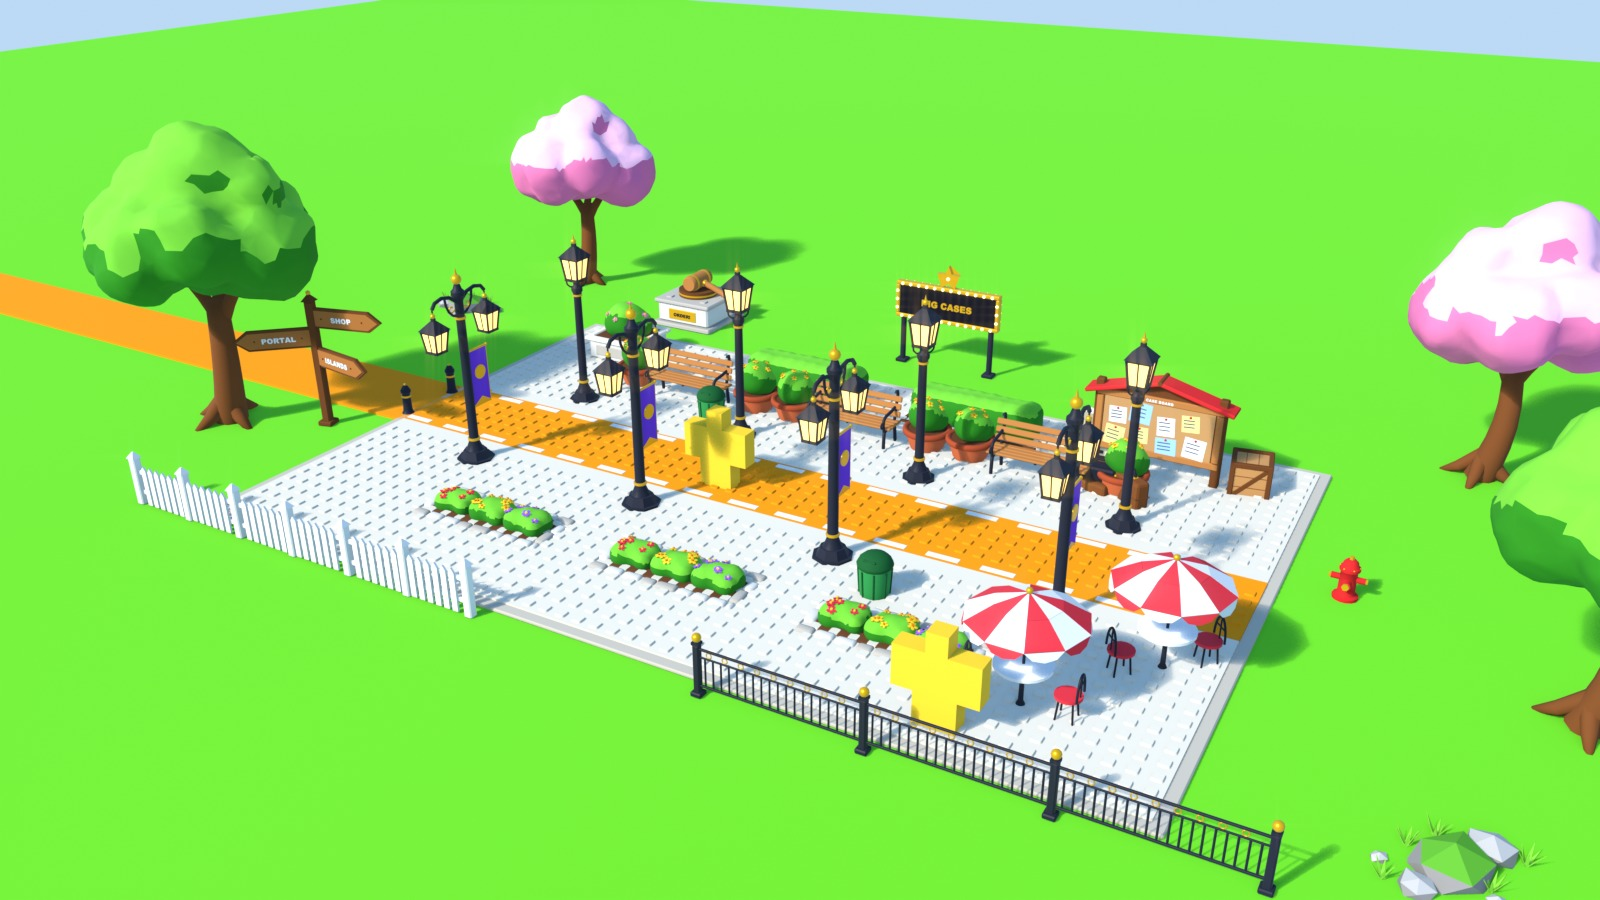
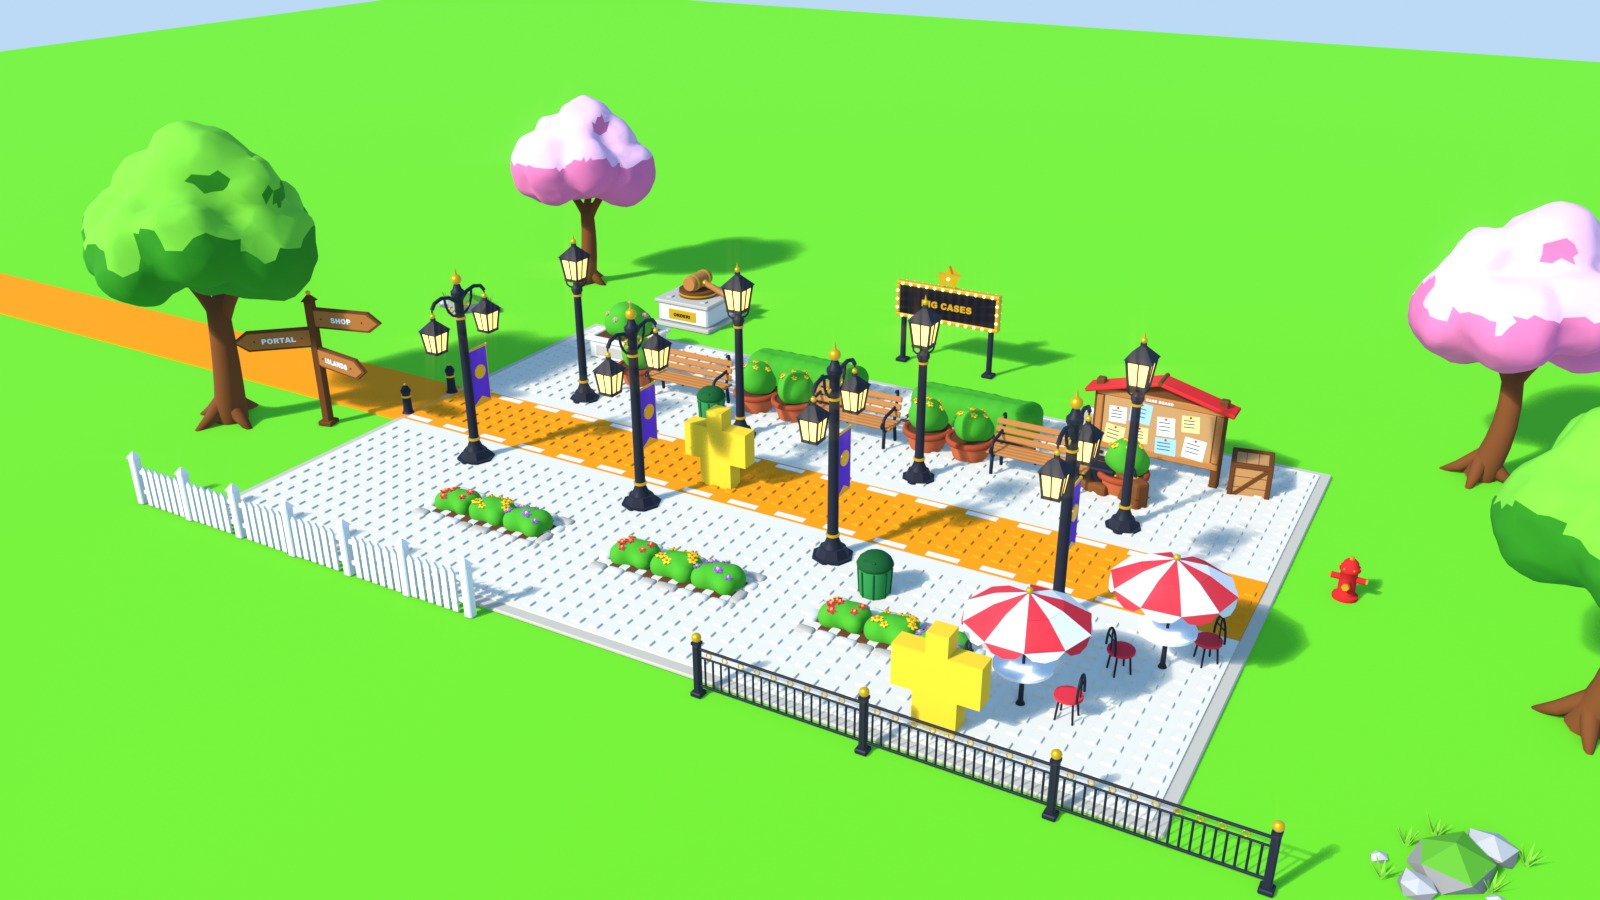
Overhaul props: bushes one solid green (crnuch: two-tone looked like two different colours); architecture kit ohbuild.py (windows, doors, columns, hip roofs, pediments, balustrades, quoins, flags, StudTop preview)

diff --git a/tools/blender/overhaul/ohbuild.py b/tools/blender/overhaul/ohbuild.py
@@ -1,0 +1,244 @@
+# tools/blender/overhaul/ohbuild.py - the MAP MODEL OVERHAUL's architecture kit (hub buildings, firm stages): framed
+# windows (arched / square, glass with a cartoon shine), panelled double doors with a fanlight, classical columns, hip
+# roofs with standing seams and a gold ridge, pediments, balustrades, corner quoins, flags, and the StudTop preview.
+# Everything builds in the current ohkit frame (O.at). A wall piece's outward face is local -Y at y = 0 (turn it with
+# O.at(rz=...) for other walls). Names: <prefix>_<Part> per colour, like the rest of the overhaul.
+import math
+from mathutils import Vector
+import ohkit as O
+from ohkit import box, cyl, lathe, sphere, tube, prism, poly
+
+TAU = math.tau
+
+
+# ------------------------------------------------------------------ outlines
+def opening(w, h, arch=True, n=10, grow=0.0):
+    """An opening's outline [(x, z)] from the bottom-left, counter-clockwise seen from the front: a rectangle, or one
+    whose top is a half circle (the same point count either way, so two outlines can be joined into a frame ring).
+    grow widens it on the sides and top (a frame's outer edge)."""
+    hw = w / 2 + grow
+    if arch:
+        spring = h - w / 2
+        pts = [(-hw, -grow * 0.5), (hw, -grow * 0.5), (hw, spring)]
+        pts += [(hw * math.cos(math.pi * i / n), spring + hw * math.sin(math.pi * i / n)) for i in range(1, n)]
+        pts += [(-hw, spring)]
+    else:
+        top = h + grow
+        pts = [(-hw, -grow * 0.5), (hw, -grow * 0.5), (hw, top - 0.001)]
+        pts += [(hw - 2 * hw * i / n, top) for i in range(1, n)]
+        pts += [(-hw, top - 0.001)]
+    return pts
+
+
+def ring(name, look, outer, inner, y0, y1):
+    """A frame between two outlines with the same point count, from y0 (front) to y1 (back)."""
+    import bmesh
+    tmp = bmesh.new()
+    of = [tmp.verts.new((x, y0, z)) for x, z in outer]
+    inf = [tmp.verts.new((x, y0, z)) for x, z in inner]
+    ob = [tmp.verts.new((x, y1, z)) for x, z in outer]
+    ib = [tmp.verts.new((x, y1, z)) for x, z in inner]
+    n = len(outer)
+    for i in range(n):
+        j = (i + 1) % n
+        tmp.faces.new((of[i], of[j], inf[j], inf[i]))
+        tmp.faces.new((ib[i], ib[j], ob[j], ob[i]))
+        tmp.faces.new((ob[i], ob[j], of[j], of[i]))
+        tmp.faces.new((inf[i], inf[j], ib[j], ib[i]))
+    for f in tmp.faces:
+        f.smooth = False
+    bmesh.ops.recalc_face_normals(tmp, faces=tmp.faces[:])
+    O._merge(name, look, tmp, O.Matrix.Identity(4))
+
+
+# ------------------------------------------------------------------ windows + doors
+def window(p, x, z, w, h, arch=True, frame="white", glass="glass_blue", sill="marble", keystone="marble_shade",
+           mullions=True, shutters=None, depth=0.3):
+    """A framed window on the wall at local y = 0 (outward -Y): frame ring, recessed glass + shine, cross mullions,
+    sill, keystone (arched) and optional shutters. (x, z) = the bottom centre."""
+    fw = max(0.32, w * 0.12)
+    with O.at(x, 0, z):
+        ring(p + "_Frame", frame, opening(w, h, arch, grow=fw), opening(w, h, arch), -depth, 0.05)
+        prism(p + "_Glass", glass, opening(w, h, arch), 0.1, c=(0, -0.08, 0))
+        sh = min(w, h) * 0.18  # a cartoon shine: two slanted streaks
+        for k, (ox, ln) in enumerate(((-w * 0.18, 0.55), (-w * 0.02, 0.3))):
+            cx, cz = ox, h * 0.62 - k * 0.15 * h
+            poly(p + "_Shine", "white", [(cx - sh * 0.35, -0.14, cz - h * 0.12 * ln), (cx - sh * 0.1, -0.14, cz - h * 0.12 * ln),
+                                         (cx + sh * 0.65, -0.14, cz + h * 0.12 * ln), (cx + sh * 0.4, -0.14, cz + h * 0.12 * ln)])
+        if mullions:
+            top = h - (w / 2 if arch else 0) * 0.0
+            box(p + "_Frame", frame, (0, -0.16, top / 2), (0.16, 0.12, top))
+            box(p + "_Frame", frame, (0, -0.16, (h - w / 2) if arch else h * 0.55), (w, 0.12, 0.16))
+        if sill:
+            box(p + "_Sill", sill, (0, -depth - 0.12, -fw * 0.5 - 0.12), (w + fw * 2 + 0.5, 0.6, 0.26), bevel=0.06)
+        if arch and keystone:
+            kz = h + fw * 0.5
+            prism(p + "_Key", keystone, [(-0.32, kz - 0.5), (0.32, kz - 0.5), (0.45, kz + 0.45), (-0.45, kz + 0.45)], depth + 0.14,
+                  c=(0, -(depth + 0.14) / 2 + 0.05, 0))
+        if shutters:
+            for s in (-1, 1):
+                sx = s * (w / 2 + fw + 0.55 * w / 2)
+                sh_h = (h - w / 2 * 0.6) if arch else h
+                box(p + "_Shutter", shutters, (sx, -0.12, sh_h / 2), (w * 0.52, 0.18, sh_h), bevel=0.04)
+                for zz in [sh_h * (i + 1) / 7 for i in range(6)]:
+                    box(p + "_Shutter", shutters, (sx, -0.23, zz), (w * 0.44, 0.06, 0.1), rot=(20, 0, 0))
+
+
+def door(p, x, z, w, h, frame="gold", leaf="wood_deep", panel="wood_warm", glass="glass_blue", handle="gold", depth=0.5):
+    """An arched double door: frame ring, two panelled leaves, gold handles, a fanlight with radiating glazing bars."""
+    fw = max(0.4, w * 0.09)
+    spring = h - w / 2
+    with O.at(x, 0, z):
+        ring(p + "_DoorFrame", frame, opening(w, h, True, grow=fw), opening(w, h, True), -depth, 0.05)
+        for s in (-1, 1):
+            cx = s * w / 4
+            box(p + "_Leaf", leaf, (cx, -0.12, spring / 2), (w / 2 - 0.06, 0.2, spring), bevel=0.04)
+            for zz, hh in ((spring * 0.27, spring * 0.36), (spring * 0.72, spring * 0.42)):
+                box(p + "_Panel", panel, (cx, -0.24, zz), (w / 2 - 0.7, 0.08, hh), bevel=0.05)
+            sphere(p + "_Handle", handle, (s * 0.32, -0.36, spring * 0.5), 0.17, sub=1)
+            box(p + "_Handle", handle, (s * 0.32, -0.24, spring * 0.5), (0.26, 0.1, 0.6), bevel=0.04)
+        fan = [(w / 2 * math.cos(math.pi * i / 12), spring + w / 2 * math.sin(math.pi * i / 12)) for i in range(13)]
+        prism(p + "_Glass", glass, [(w / 2, spring)] + fan[1:-1] + [(-w / 2, spring)], 0.1, c=(0, -0.1, 0))
+        box(p + "_DoorFrame", frame, (0, -0.2, spring), (w, 0.2, 0.22))
+        for i in range(1, 6):
+            a = math.pi * i / 6
+            tube(p + "_DoorFrame", frame, [(0, -0.18, spring), (w / 2 * 0.95 * math.cos(a), -0.18, spring + w / 2 * 0.95 * math.sin(a))],
+                 0.07, segs=4)
+        box(p + "_Step", "marble", (0, -depth - 0.6, -0.12), (w + fw * 2 + 0.6, 1.4, 0.24), bevel=0.05)
+
+
+# ------------------------------------------------------------------ columns, cornices, quoins, balustrades
+def column(p, x, y, z, h, r=1.0, look="marble", trim="gold"):
+    """A Tuscan column (square plinth, torus base, swelling shaft, gold necking ring, echinus, square abacus)."""
+    with O.at(x, y, z):
+        box(p + "_Column", look, (0, 0, 0.25), (r * 2.5, r * 2.5, 0.5), bevel=0.06)
+        lathe(p + "_Column", look, [(r * 1.18, 0.5, True), (r * 1.22, 0.62), (r * 1.18, 0.8), (r * 1.05, 0.92, True),
+                                    (r * 1.0, 1.0), (r * 1.02, h * 0.33), (r * 0.9, h - 1.3), (r * 0.9, h - 1.1, True)], segs=20)
+        cyl(p + "_Trim", trim, (0, 0, h - 1.1), r * 0.98, 0.22, segs=20)
+        lathe(p + "_Column", look, [(r * 0.9, h - 0.88, True), (r * 1.05, h - 0.72), (r * 1.22, h - 0.5, True), (0.0, h - 0.5)],
+              segs=20)
+        box(p + "_Column", look, (0, 0, h - 0.25), (r * 2.6, r * 2.6, 0.5), bevel=0.06)
+
+
+def quoins(p, x, y, z0, z1, look="stone_mid", dir=(1, 1), size=1.0):
+    """Alternating corner stones up a building corner at (x, y); dir = which way the two faces point (+/-1, +/-1)."""
+    k, z = 0, z0
+    while z + size * 0.9 < z1:
+        long = k % 2 == 0
+        lx, ly = (1.8 if long else 1.1) * size, (1.1 if long else 1.8) * size
+        box(p + "_Quoin", look, (x - dir[0] * (lx / 2 - 0.12), y - dir[1] * (ly / 2 - 0.12), z + size * 0.45),
+            (lx, ly, size * 0.86), bevel=0.06)
+        z += size
+        k += 1
+
+
+def balustrade(p, x0, y0, x1, y1, z, h=1.6, look="marble", rail=None, every=0.75, posts=6.0):
+    """A run of turned balusters between a base and a hand rail, with square posts every `posts` studs."""
+    rail = rail or look
+    L = math.hypot(x1 - x0, y1 - y0)
+    ang = math.degrees(math.atan2(y1 - y0, x1 - x0))
+    with O.at((x0 + x1) / 2, (y0 + y1) / 2, z, rz=ang):
+        box(p + "_Rail", rail, (0, 0, 0.12), (L, 0.7, 0.24), bevel=0.04)
+        box(p + "_Rail", rail, (0, 0, h - 0.13), (L + 0.2, 0.8, 0.26), bevel=0.06)
+        n = max(1, int(L / every))
+        for i in range(n):
+            x = -L / 2 + (i + 0.5) * L / n
+            lathe(p + "_Baluster", look, [(0.22, 0.24, True), (0.24, 0.36), (0.16, 0.5), (0.27, 0.8), (0.2, h - 0.5), (0.14, h - 0.4),
+                                          (0.22, h - 0.26, True)], segs=6, c=(x, 0, 0))
+        m = max(1, int(L / posts))
+        for i in range(m + 1):
+            x = -L / 2 + i * L / m
+            box(p + "_Rail", rail, (x, 0, h / 2), (0.6, 0.6, h), bevel=0.05)
+            box(p + "_Rail", rail, (x, 0, h + 0.1), (0.75, 0.75, 0.2), bevel=0.05)
+
+
+def cornice(p, x, y, z, sx, sy, look="marble", trim=None, depth=0.8):
+    """A stepped cornice band around a block's top (three stacked chamfered slabs, the middle one a gold fillet)."""
+    box(p + "_Cornice", look, (x, y, z + 0.2), (sx + 0.3, sy + 0.3, 0.4), bevel=0.06)
+    box(p + "_" + ("Trim" if trim else "Cornice"), trim or look, (x, y, z + 0.5), (sx + depth * 0.6, sy + depth * 0.6, 0.2), bevel=0.04)
+    box(p + "_Cornice", look, (x, y, z + 0.85), (sx + depth * 1.5, sy + depth * 1.5, 0.5), bevel=0.1)
+
+
+# ------------------------------------------------------------------ roofs
+def hip_roof(p, look, x, y, z, sx, sy, h, over=0.8, seam="navy_seam", ridge="gold", fascia="marble", seams=1.4):
+    """A hip roof over a sx x sy block (ridge along the longer side), with an eave fascia, standing seams on every
+    slope and a gold ridge + hip caps with finial balls."""
+    import bmesh
+    ex, ey = sx / 2 + over, sy / 2 + over
+    along_x = sx >= sy
+    r = abs(ex - ey)
+    with O.at(x, y, z):
+        box(p + "_Fascia", fascia, (0, 0, -0.2), (ex * 2 + 0.1, ey * 2 + 0.1, 0.45), bevel=0.06)
+        tmp = bmesh.new()
+        e = [tmp.verts.new(v) for v in ((-ex, -ey, 0), (ex, -ey, 0), (ex, ey, 0), (-ex, ey, 0))]
+        if along_x:
+            a, b = tmp.verts.new((-r, 0, h)), tmp.verts.new((r, 0, h))
+            faces = [(e[0], e[1], b, a), (e[2], e[3], a, b), (e[1], e[2], b), (e[3], e[0], a)]
+        else:
+            a, b = tmp.verts.new((0, -r, h)), tmp.verts.new((0, r, h))
+            faces = [(e[1], e[2], b, a), (e[3], e[0], a, b), (e[0], e[1], a), (e[2], e[3], b)]
+        for f in faces:
+            tmp.faces.new(f).smooth = False
+        tmp.faces.new((e[3], e[2], e[1], e[0])).smooth = False
+        O._merge(p + "_Roof", look, tmp, O.Matrix.Identity(4))
+        ridge_a, ridge_b = (Vector((-r, 0, h)), Vector((r, 0, h))) if along_x else (Vector((0, -r, h)), Vector((0, r, h)))
+        corners = [Vector((-ex, -ey, 0)), Vector((ex, -ey, 0)), Vector((ex, ey, 0)), Vector((-ex, ey, 0))]
+        # standing seams: on each slope, up the fall line from the eave until a hip (or the ridge). Every slope runs in
+        # m = the short half-width and rises h; a hip is 45 degrees in plan.
+        m, lift = min(ex, ey), 0.06
+        if seam:
+            for axis, sign in (("x", -1), ("x", 1), ("y", -1), ("y", 1)):
+                E = ex if axis == "x" else ey
+                kmax = int((E - 0.3) / seams)
+                for k in range(-kmax, kmax + 1):
+                    u = k * seams
+                    t = min(m, E - abs(u))
+                    if t < 0.4:
+                        continue
+                    if axis == "x":
+                        base, n_in = Vector((u, sign * ey, 0)), Vector((0, -sign, 0))
+                    else:
+                        base, n_in = Vector((sign * ex, u, 0)), Vector((-sign, 0, 0))
+                    top = base + n_in * t + Vector((0, 0, h * t / m))
+                    nrm = (-n_in * h + Vector((0, 0, m))).normalized()
+                    tube(p + "_Seam", seam, [tuple(base + nrm * lift), tuple(top + nrm * lift)], 0.07, segs=4, cap=False)
+        if ridge:
+            if r > 0.01:
+                tube(p + "_Ridge", ridge, [tuple(ridge_a + Vector((0, 0, 0.05))), tuple(ridge_b + Vector((0, 0, 0.05)))], 0.2, segs=8)
+            ends = (ridge_a, ridge_b) if r > 0.01 else (ridge_a,)
+            for c, ra in zip(corners, (ridge_a, ridge_b, ridge_b, ridge_a) if along_x else (ridge_a, ridge_a, ridge_b, ridge_b)):
+                tube(p + "_Ridge", ridge, [tuple(c + Vector((0, 0, 0.08))), tuple(ra + Vector((0, 0, 0.05)))], 0.16, segs=6)
+            for e2 in ends:
+                sphere(p + "_Ridge", ridge, tuple(e2 + Vector((0, 0, 0.35))), 0.38, sub=2)
+
+
+def gable(p, look, x, y, z, w, h, depth, trim="marble", tympanum=None, over=0.7):
+    """A triangular pediment (front at local -Y) with raking + base cornices and an optional recessed tympanum."""
+    with O.at(x, y, z):
+        prism(p + "_Pediment", look, [(-w / 2, 0), (w / 2, 0), (0, h)], depth, c=(0, 0, 0))
+        if tympanum:
+            prism(p + "_Tympanum", tympanum, [(-w / 2 + 1.6, 0.55), (w / 2 - 1.6, 0.55), (0, h - 0.9)], 0.1, c=(0, -depth / 2 - 0.03, 0))
+        slope = math.degrees(math.atan2(h, w / 2))
+        L = math.hypot(w / 2, h) + over
+        for s in (-1, 1):
+            box(p + "_Raking", trim, (s * w / 4, -0.1, h / 2 + 0.28), (L, depth + over * 1.4, 0.56), rot=(0, -s * slope, 0), bevel=0.08)
+        box(p + "_Raking", trim, (0, -0.1, -0.05), (w + over * 2, depth + over * 1.4, 0.5), bevel=0.08)
+
+
+def flag(p, x, y, z, h, look="flag_purple", pole="white", w=3.6, fh=2.2, seed=0):
+    """A flagpole with a gold ball and a waving cloth (thin strip, both sides)."""
+    with O.at(x, y, z):
+        cyl(p + "_Pole", pole, (0, 0, 0), 0.14, h, segs=8)
+        sphere(p + "_Pole", "gold", (0, 0, h + 0.2), 0.3, sub=1)
+        n = 8
+        pts_top = [(0.15 + w * i / n, 0.35 * math.sin(i / n * 5.0 + seed) * (i / n), h - 0.2) for i in range(n + 1)]
+        for i in range(n):
+            a, b = pts_top[i], pts_top[i + 1]
+            poly(p + "_Flag", look, [(a[0], a[1], a[2] - fh), (b[0], b[1], b[2] - fh - 0.1 * (i + 1) / n), (b[0], b[1], b[2]),
+                                     (a[0], a[1], a[2])], thick=0.06)
+
+
+def studtop(model, look, x0, x1, y0, y1, z, skip=None):
+    """PREVIEW studs on a broad top (podium, roof deck, plaza): in the game the Studs system lays them on a StudTop
+    surface, so they are rendered here but are not part of the model's meshes."""
+    O.studs_rect("Studs_" + model + "_" + look, look, x0, x1, y0, y1, z, skip)

diff --git a/tools/blender/overhaul/ohkit.py b/tools/blender/overhaul/ohkit.py
@@ -24,7 +24,7 @@ K.PAL.update({
     "iron": (52, 54, 64), "iron_light": (96, 100, 116), "wood_warm": (196, 132, 74), "wood_deep": (122, 76, 42),
     "plank_light": (206, 152, 96), "plank_dark": (150, 98, 58), "stone_light": (232, 226, 212), "stone_mid": (196, 188, 174),
     "stone_dark": (146, 140, 132), "trim_cream": (248, 238, 214), "gold": (255, 196, 46), "gold_dark": (206, 146, 24),
-    "bush_shade": (58, 142, 40), "bush_light": (124, 206, 66), "leaf_sun": (140, 214, 74), "soil": (112, 74, 46),
+    "bush_shade": (58, 142, 40), "bush_light": (124, 206, 66), "bush": (88, 182, 54), "hedge": (80, 172, 50), "leaf_sun": (140, 214, 74), "soil": (112, 74, 46),
     "flower_red": (240, 62, 84), "flower_yel": (255, 212, 54), "flower_pink": (255, 128, 190), "flower_purple": (168, 104, 240),
     "flower_white": (252, 250, 244), "flower_orange": (255, 140, 40), "rock": (156, 152, 146), "rock_top": (204, 200, 192),
     "moss": (112, 186, 62), "brief_brown": (136, 84, 46), "brief_black": (46, 46, 56), "file_box": (234, 220, 184),
@@ -34,9 +34,14 @@ K.PAL.update({
     "terracotta": (218, 114, 72), "terracotta_dark": (178, 84, 52), "parasol_red": (234, 66, 76), "hydrant_red": (228, 52, 52),
     "banner_purple": (128, 72, 210), "plaza": (238, 228, 206), "plaza_edge": (206, 196, 176), "path": (255, 160, 24),
     "grass_ov": (124, 222, 52), "avatar": (255, 210, 60),
+    # architecture (hub buildings, firms)
+    "wall_cream": (246, 226, 180), "wall_warm": (240, 214, 168), "marble": (244, 242, 236), "marble_shade": (220, 216, 206),
+    "navy_roof": (56, 70, 136), "navy_dark": (38, 48, 100), "navy_seam": (82, 98, 168), "glass_blue": (128, 190, 240),
+    "glass_deep": (82, 140, 210), "carpet_red": (204, 40, 58), "flag_purple": (140, 80, 220), "flag_red": (232, 56, 64),
 })
 K.GLOWS.update({"lamp_glow": ((255, 208, 120), 1.35), "bulb_glow": ((255, 226, 150), 2.2)})  # (warm, not blown to white)
-ROUGH = {"gold": 0.32, "gold_dark": 0.36, "iron": 0.5, "iron_light": 0.5, "brief_black": 0.45, "panel_black": 0.4}
+ROUGH = {"gold": 0.32, "gold_dark": 0.36, "iron": 0.5, "iron_light": 0.5, "brief_black": 0.45, "panel_black": 0.4,
+         "glass_blue": 0.12, "glass_deep": 0.12, "navy_roof": 0.6}
 
 BMS = {}          # name -> (bmesh, look)
 CUR = [Matrix.Identity(4)]
@@ -356,10 +361,11 @@ def tuft(name, look, c, h=0.9, blades=6, seed=0):
 
 
 # ------------------------------------------------------------------ foliage (the approved tree canopy, from trees.py)
-def leafy(name, blobs, shade="bush_shade", light="bush_light", voxel=0.25, faces=700, lumpy=0.25, seed=0, squash=1.0, split=0.3):
-    """Overlapping spheres (local frame) -> ONE organic surface (voxel remesh + lumps + smooth + thin), split by which
-    way each face looks into <name>_Canopy (shade) + <name>_Light (sunlit top), as the approved trees do.
-    Returns the two objects (for flowers_on)."""
+def leafy(name, blobs, look="bush", voxel=0.25, faces=700, lumpy=0.25, seed=0, squash=1.0, split=None, light=None):
+    """Overlapping spheres (local frame) -> ONE organic surface (voxel remesh + lumps + smooth + thin) in ONE green
+    (crnuch 2026-10-24: two-tone bushes looked like two different colours; the light does the shading). split + light
+    = the trees' old two-tone split (<name>_Canopy + <name>_Light), kept only for reference. Returns the objects."""
+    shade = look
     full = PREFIX[-1] + name
     bm = bmesh.new()
     for c, r in blobs:
@@ -386,6 +392,13 @@ def leafy(name, blobs, shade="bush_shade", light="bush_light", voxel=0.25, faces
     dec = ob.modifiers.new("Decimate", "DECIMATE")
     dec.ratio = min(1.0, faces / max(1, len(ob.data.polygons)))
     _apply(ob)
+    if split is None:  # one colour: just name it and smooth it
+        ob.name = ob.data.name = full + "_Leaves"
+        ob.data.materials.clear()
+        ob.data.materials.append(mat(look))
+        for p in ob.data.polygons:
+            p.use_smooth = True
+        return [ob]
     bm = bmesh.new()
     bm.from_mesh(ob.data)
     bm.normal_update()
@@ -487,11 +500,23 @@ def render(out, name, loc, look, lens=32, res=(1600, 900), show=None):
     print("rendered", sc.render.filepath)
 
 
-def stats(skip=("Preview", "Scene", "Old")):
-    tot = {}
+def stats(skip=("Preview", "Scene", "Old", "Studs")):
+    """Triangles per model (<Model>_...), the biggest single mesh (a Roblox MeshPart takes at most 20,000), and the
+    preview studs (in the game the Studs system lays them on StudTop surfaces, so they are not part of the meshes)."""
+    tot, big = {}, []
     for ob in bpy.data.objects:
         if ob.type == "MESH" and not ob.name.startswith(skip):
+            t = sum(len(p.vertices) - 2 for p in ob.data.polygons)
             key = ob.name.split("_")[0]
-            tot[key] = tot.get(key, 0) + sum(len(p.vertices) - 2 for p in ob.data.polygons)
+            tot[key] = tot.get(key, 0) + t
+            big.append((t, ob.name))
     print("tris per model:", dict(sorted(tot.items())))
-    print("TOTAL tris", sum(tot.values()), "meshes", sum(1 for o in bpy.data.objects if o.type == "MESH" and not o.name.startswith(skip)))
+    big.sort(reverse=True)
+    print("biggest meshes:", big[:4], "(limit 20000 each)")
+    over = [n for t, n in big if t > 20000]
+    if over:
+        print("!! OVER THE MESHPART LIMIT:", over)
+    print("TOTAL tris", sum(tot.values()), "meshes", len(big))
+    n = sum(len(ob.data.polygons) for ob in bpy.data.objects if ob.type == "MESH" and ob.name.startswith("Studs"))
+    if n:
+        print("preview studs (StudTop surfaces in game):", n // 32, "studs")

diff --git a/tools/blender/overhaul/props.py b/tools/blender/overhaul/props.py
@@ -1,7 +1,7 @@
 # tools/blender/overhaul/props.py - MAP MODEL OVERHAUL stage 2: the PROP KIT (crnuch's calls 2026-10-24, CLAUDE.md
 # "MODEL OVERHAUL"). The street furniture, greenery, signs and legal cargo every area of the map reuses, remade as smooth
 # meshes in the approved benchmark style (trees / portal / shack): chunky toy shapes, chamfered edges, round posts with
-# turned profiles, one mesh per colour (<Prop>_<Part>), foliage = the trees' two-tone canopy, NO studs on small props
+# turned profiles, one mesh per colour (<Prop>_<Part>), foliage = ONE green lumpy surface (crnuch: not two-tone), NO studs on small props
 # (studs only on broad structural tops - docs/ART_STYLE_STUDS.md + "Studs stay LOW"). Sign text is preview only: in the
 # game it is a SurfaceGui in the game's fonts on the board.
 #   Blender -b --factory-startup --python tools/blender/overhaul/props.py -- <out_dir>
@@ -283,7 +283,7 @@ def flower_bed():
                                           (2.45, "flower_purple", "flower_yel"))):
         blobs = [((x0 + dx, dy, 0.62), rr) for dx, dy, rr in ((-0.6, -0.3, 0.72), (0.55, 0.25, 0.72), (0.0, 0.0, 0.8), (0.7, -0.45, 0.55),
                                                              (-0.65, 0.45, 0.55))]
-        obs = leafy(n + "_Leaves%d" % gi, blobs, voxel=0.18, faces=420, lumpy=0.12, seed=20 + gi, split=0.35)
+        obs = leafy(n + "_Leaves%d" % gi, blobs, voxel=0.18, faces=420, lumpy=0.14, seed=20 + gi)
         pts = [(x0 + r.uniform(-1.05, 1.05), r.uniform(-0.75, 0.75), 4) for _ in range(9)]
         flowers_on(obs, n + "_Flower" + look.split("_")[1].title(), look, n + "_FlowerMid" + mid.split("_")[1].title(), mid, pts, r=0.24)
 
@@ -292,7 +292,7 @@ def hedge():
     """Clipped hedge 8 x 2.4 x 2.6 on a low wooden edging."""
     n = "Hedge"
     blobs = [((x, y, z), 0.86) for x in [-3.4 + 0.85 * i for i in range(9)] for y in (-0.42, 0.42) for z in (0.95, 1.7)]
-    leafy(n + "_Leaves", blobs, voxel=0.28, faces=1100, lumpy=0.16, seed=9, split=0.45)
+    leafy(n + "_Hedge", blobs, look="hedge", voxel=0.28, faces=1100, lumpy=0.16, seed=9)
     for (x, y, sx, sy) in ((0, -1.42, 9.0, 0.26), (0, 1.42, 9.0, 0.26), (-4.37, 0, 0.26, 2.58), (4.37, 0, 0.26, 2.58)):
         box(n + "_Edge", "wood_deep", (x, y, 0.2), (sx, sy, 0.4), bevel=0.05)
 
@@ -619,4 +619,5 @@ def main():
     O.render(OUT, "props_after", (124, 600 - 44, 10), (124, 600, 3.5), lens=28, show=["compare"])
 
 
-main()
+if __name__ == "__main__":  # (the hub / firm scripts import the props)
+    main()
